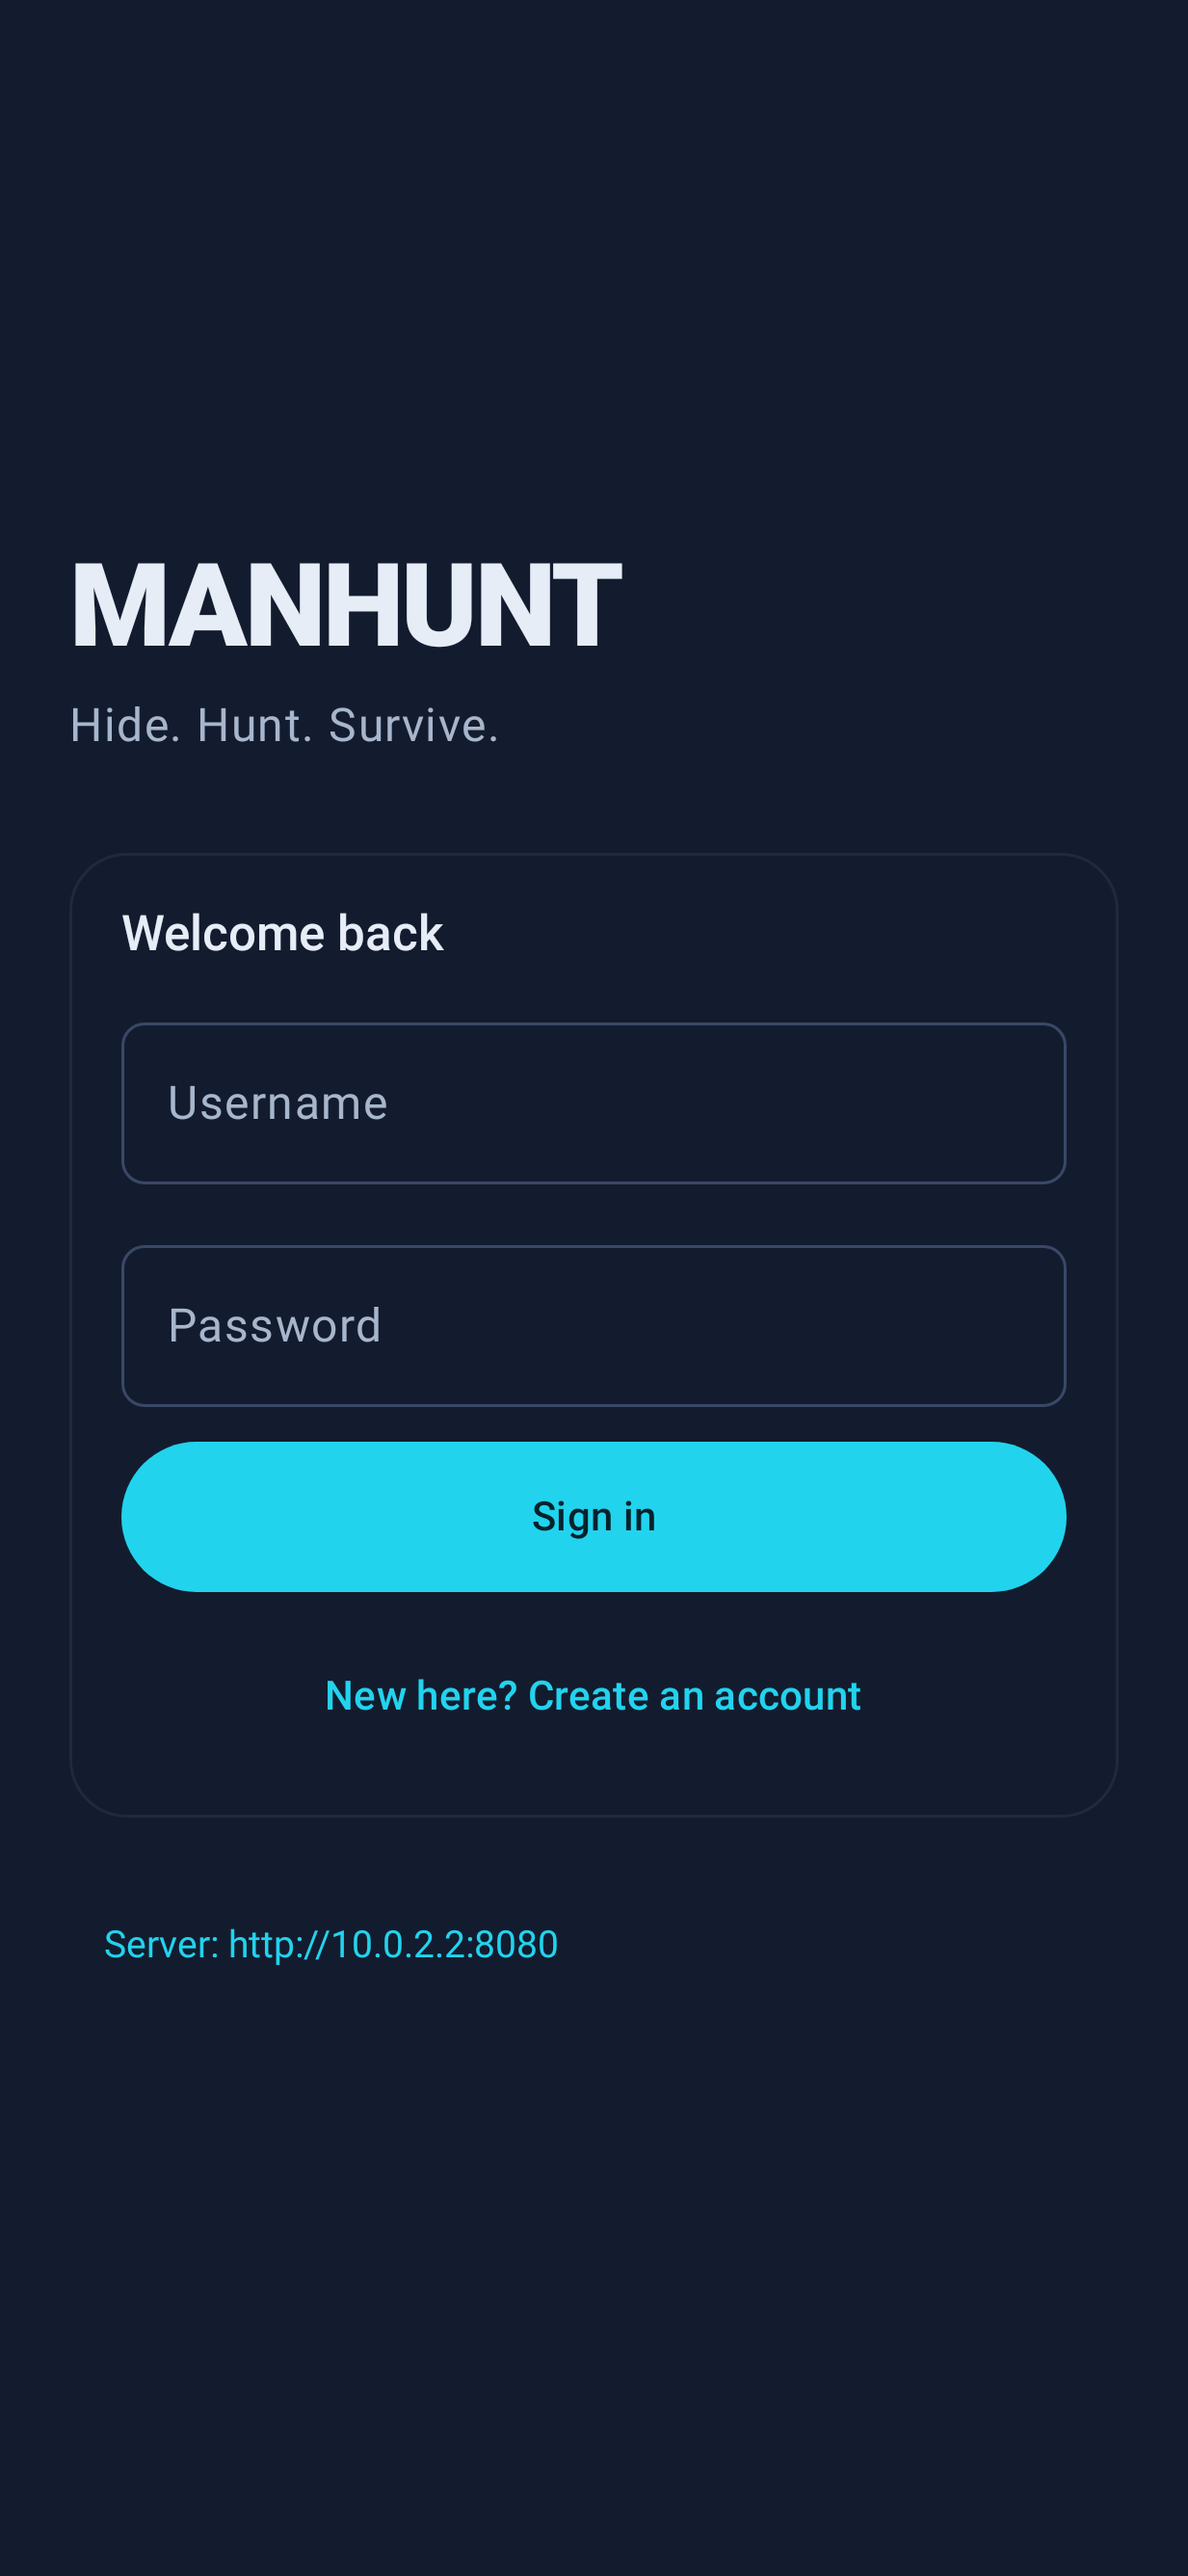
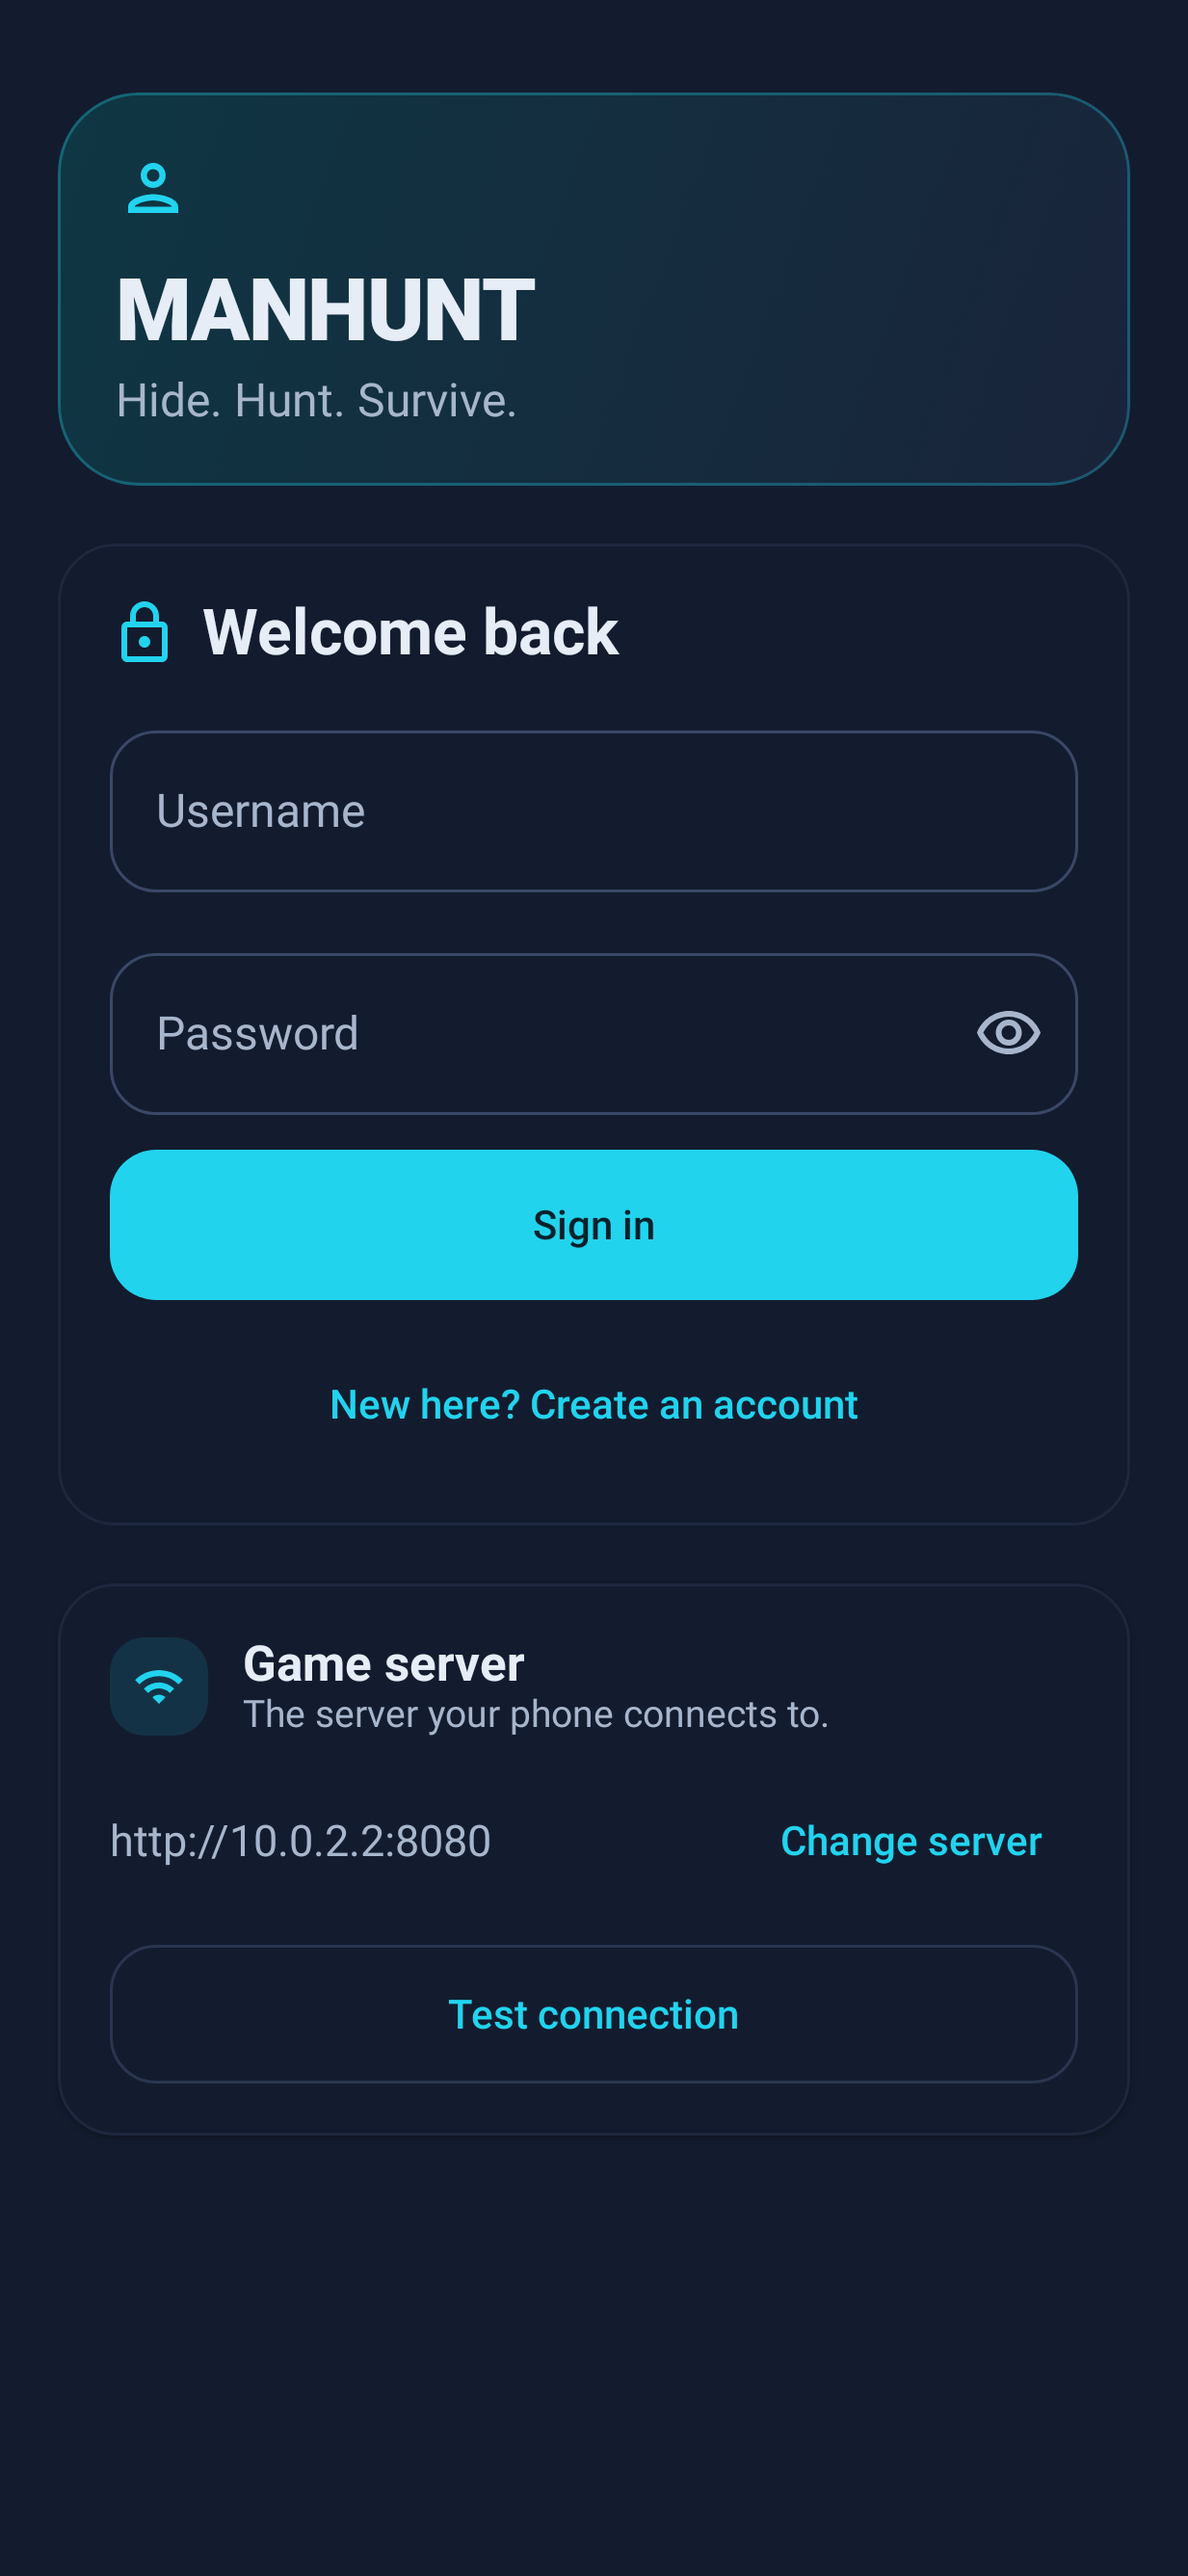
docs(v0.9.0): refresh screenshots from the v0.9.0 CI run, add lobby/result, drop stale 0.7.x images
- Replace 01-auth, 02-chat-dark, 03-chat-arabic-rtl and 04-hunting-map with renders of
  this exact build; add 05-lobby (blocker copy next to the start button, share icon) and
  06-hunt-result (new result dialog) from the real-emulator CI run.
- Delete the five pre-redesign device screenshots (05-09) that no doc references.
- Arabic translation for the new map Recenter control.

diff --git a/android/app/src/main/java/com/manhunt/app/i18n/Localization.kt b/android/app/src/main/java/com/manhunt/app/i18n/Localization.kt
@@ -390,6 +390,7 @@ private val arabic: Map<String, String> = mapOf(
     "Hunters are live." to "الصيادون يتحركون الآن.",
     "Confirm the tag?" to "هل تؤكد الوسم؟",
     "Open the app to decide." to "افتح التطبيق لتقرر.",
+    "Recenter" to "إعادة التمركز",
 )
 
 val LocalLanguage = compositionLocalOf { AppLanguage.English }

diff --git a/README.md b/README.md
@@ -11,15 +11,18 @@ chat — so a phone can lose signal or restart without breaking the game.
 
 ## Screenshots
 
-| Sign in | Chat (dark) | Chat (Arabic, RTL) |
+| Sign in | Lobby | Chat (dark) |
 |---|---|---|
-| ![Sign in](docs/screenshots/01-auth.png) | ![Chat in dark mode](docs/screenshots/02-chat-dark.png) | ![Arabic RTL chat](docs/screenshots/03-chat-arabic-rtl.png) |
+| ![Sign in](docs/screenshots/01-auth.png) | ![Lobby with teams and ready-up](docs/screenshots/05-lobby.png) | ![Chat in dark mode](docs/screenshots/02-chat-dark.png) |
 
-![Hunting map with zone, trail and prey markers](docs/screenshots/04-hunting-map.png)
+| Chat (Arabic, RTL) | Hunting map | Hunt result |
+|---|---|---|
+| ![Arabic RTL chat](docs/screenshots/03-chat-arabic-rtl.png) | ![Hunting map with zone, trail and prey markers](docs/screenshots/04-hunting-map.png) | ![Hunt result dialog](docs/screenshots/06-hunt-result.png) |
 
-Screenshots are captured from the real Compose UI (Robolectric screenshot tests or the CI
-emulator) and uploaded as CI artifacts. Map tiles come from OpenStreetMap at runtime and need
-network access; a render captured without network shows a blank tile layer.
+The lobby and result screenshots are captured by the real-emulator CI job; the rest come from the
+Robolectric screenshot tests. Map tiles come from OpenStreetMap at runtime and need network access;
+a render captured without network shows a blank tile layer (the Robolectric hunting-map shot draws
+the zone, trail and prey markers on top of a deliberately blank tile layer).
 
 ## Download and install
 
